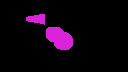
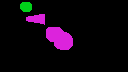
Improve logging of unrecognised colour errors

Changed region(s): [[0.1562, 0.0278, 0.25, 0.1667]]

diff --git a/LevelBuild/main.py b/LevelBuild/main.py
@@ -59,14 +59,17 @@ class grid_square(sprite):
                 self.element = config.dict[col]
 
         if self.element is None:
-            print(f"ERROR: unrecognised colour {element}")
+            print(f"ERROR: unrecognised colour {element}, at X: {self.x} Y: {self.y}")
             self.element = '!'
-            self.c = (0, random.randint(0, 255), random.randint(0, 255))
-            while self.c in config.dict.keys():
-                self.c = (0, random.randint(0, 255), random.randint(0, 255))
+            self.c = (255, 255, 0)
 
     def update_draw(self, game):
-        pygame.draw.rect(game.win, self.c, (self.x * self.side, self.y * self.side, self.side, self.side))
+        if self.element == '!':
+            pygame.draw.rect(game.win, game.bg, (self.x * self.side, self.y * self.side, self.side, self.side))
+            pygame.draw.circle(game.win, self.c, (self.x * self.side + self.side//2, self.y * self.side + self.side//2), self.side * 0.3)
+
+        else:
+            pygame.draw.rect(game.win, self.c, (self.x * self.side, self.y * self.side, self.side, self.side))
 
 
 game = game_info(
@@ -75,7 +78,7 @@ game = game_info(
                 win_h=720,
                 user_w=1280,
                 user_h=720,
-                bg=(155, 35, 35),
+                bg=(1, 1, 1),
                 framecap=False,
                 show_framerate=False,
                 quit_key=pygame.K_ESCAPE)
@@ -91,6 +94,8 @@ for y in range(l_h):
     for x in range(l_w):
         px_colour = level_image.get_at((x, y))
         game.add_sprite(grid_square(x, y, 20, px_colour))
+
+assert len(game.sprites["GRID"]) <= l_w * l_h
 
 while game.run:
     game.update_keys()
